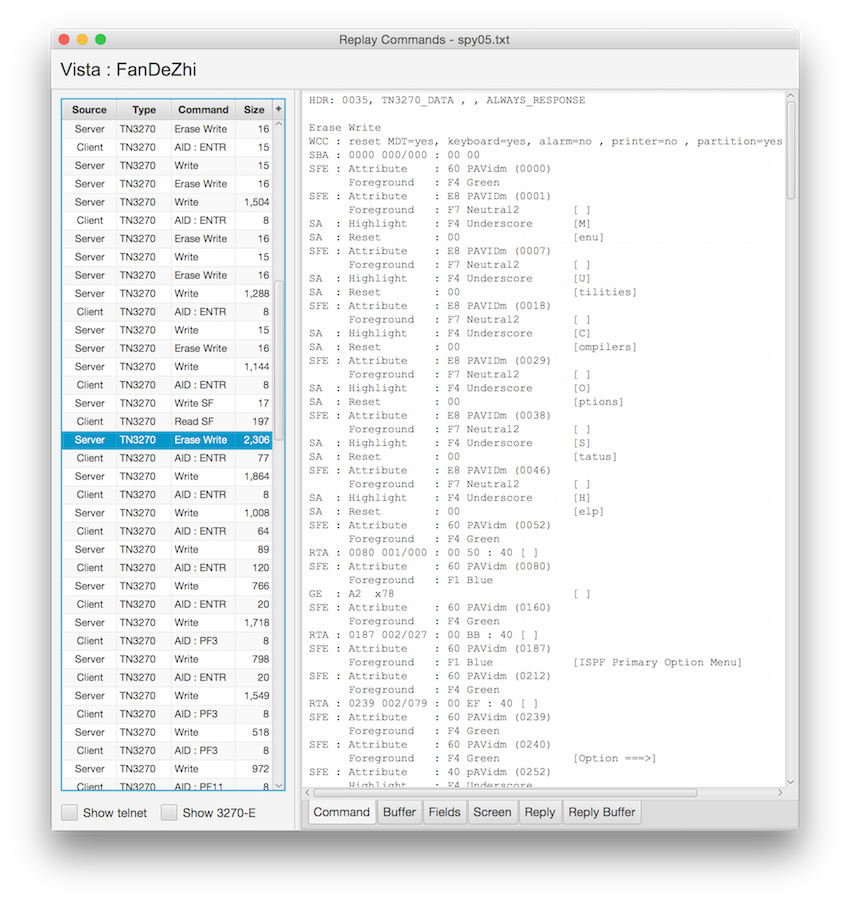
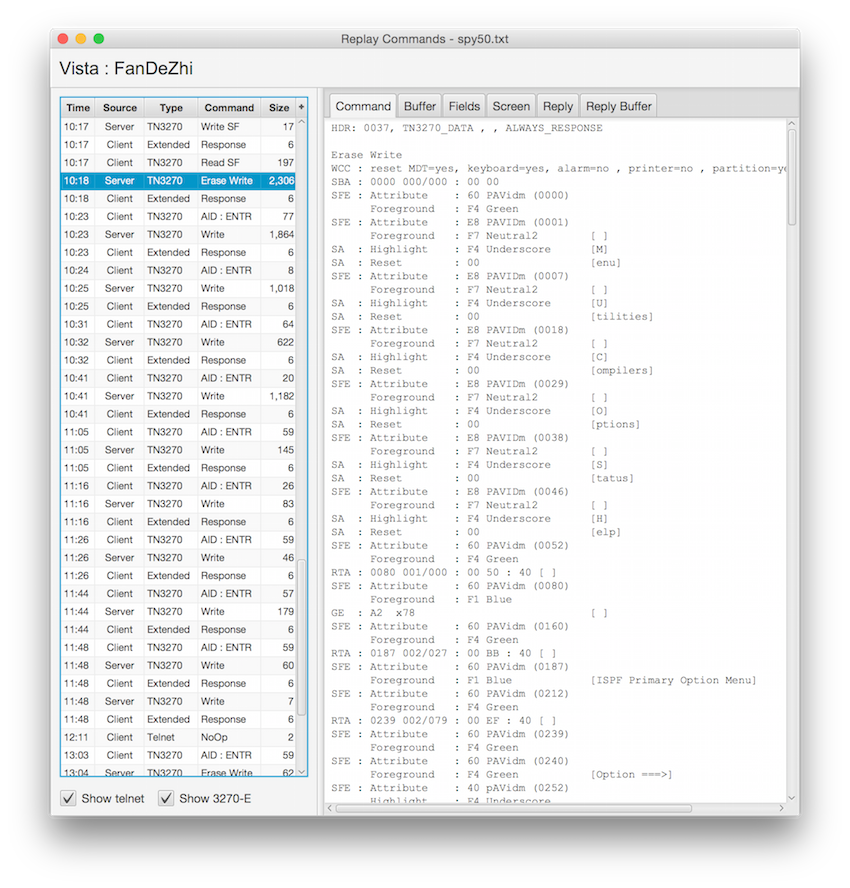
added time to session table

diff --git a/src/com/bytezone/dm3270/session/SessionRecord.java b/src/com/bytezone/dm3270/session/SessionRecord.java
@@ -18,8 +18,10 @@ import com.bytezone.dm3270.telnet.TelnetSubcommand;
 
 public class SessionRecord
 {
-  private static final DateTimeFormatter dTF = DateTimeFormatter
+  private static final DateTimeFormatter formatter = DateTimeFormatter
       .ofPattern ("dd MMM uuuu HH:mm:ss.S");
+  private static final DateTimeFormatter timeFormatter = DateTimeFormatter
+      .ofPattern ("mm:ss");
   private final ReplyBuffer message;
 
   private final Source source;
@@ -31,6 +33,7 @@ public class SessionRecord
   private StringProperty commandType;
   private StringProperty commandName;
   private IntegerProperty bufferSize;
+  private StringProperty time;
 
   public enum SessionRecordType
   {
@@ -77,6 +80,7 @@ public class SessionRecord
       setCommandName (((AbstractExtendedCommand) message).getName ());
 
     setBufferSize (message.size ());
+    setTime (timeFormatter.format (dateTime));
   }
 
   public boolean isCommand ()
@@ -204,9 +208,28 @@ public class SessionRecord
     return bufferSize;
   }
 
+  // Time
+
+  public void setTime (String value)
+  {
+    timeProperty ().set (value);
+  }
+
+  public String getTime ()
+  {
+    return commandNameProperty ().get ();
+  }
+
+  public StringProperty timeProperty ()
+  {
+    if (time == null)
+      time = new SimpleStringProperty (this, "time");
+    return time;
+  }
+
   @Override
   public String toString ()
   {
-    return String.format ("%s %s", source, dTF.format (dateTime));
+    return String.format ("%s : %s", source, formatter.format (dateTime));
   }
 }

diff --git a/src/com/bytezone/dm3270/session/SessionTable.java b/src/com/bytezone/dm3270/session/SessionTable.java
@@ -19,8 +19,9 @@ public class SessionTable extends TableView<SessionRecord>
     TableColumn<SessionRecord, String> commandTypeCol = new TableColumn<> ("Type");
     TableColumn<SessionRecord, String> commandCol = new TableColumn<> ("Command");
     TableColumn<SessionRecord, Integer> sizeCol = new TableColumn<> ("Size");
+    TableColumn<SessionRecord, Integer> timeCol = new TableColumn<> ("Time");
 
-    sourceCol.setPrefWidth (60);
+    sourceCol.setPrefWidth (55);
     sourceCol.setCellValueFactory (new PropertyValueFactory<> ("sourceName"));
 
     commandTypeCol.setPrefWidth (60);
@@ -32,6 +33,10 @@ public class SessionTable extends TableView<SessionRecord>
     sizeCol.setPrefWidth (40);
     sizeCol.setCellValueFactory (new PropertyValueFactory<> ("bufferSize"));
 
+    timeCol.setPrefWidth (38);
+    timeCol.setCellValueFactory (new PropertyValueFactory<> ("time"));
+
+    getColumns ().add (timeCol);
     getColumns ().add (sourceCol);
     getColumns ().add (commandTypeCol);
     getColumns ().add (commandCol);

diff --git a/src/com/bytezone/dm3270/application/ReplayStage.java b/src/com/bytezone/dm3270/application/ReplayStage.java
@@ -82,7 +82,7 @@ public class ReplayStage extends BasicStage
     splitPane.setOrientation (Orientation.HORIZONTAL);
 
     splitPane.getItems ().addAll (leftPane, tabPane);
-    splitPane.setDividerPositions (0.33f);
+    splitPane.setDividerPositions (0.36f);
 
     BorderPane borderPane = new BorderPane ();
     borderPane.setCenter (splitPane);

diff --git a/src/com/bytezone/dm3270/application/BasicStage.java b/src/com/bytezone/dm3270/application/BasicStage.java
@@ -114,8 +114,7 @@ public class BasicStage extends Stage
 
     if (textArea != null)
     {
-      textArea.setText (sessionRecord.toString ());
-      textArea.appendText ("\n\n");
+      textArea.setText ("");
 
       if (commandHeader != null)
       {
